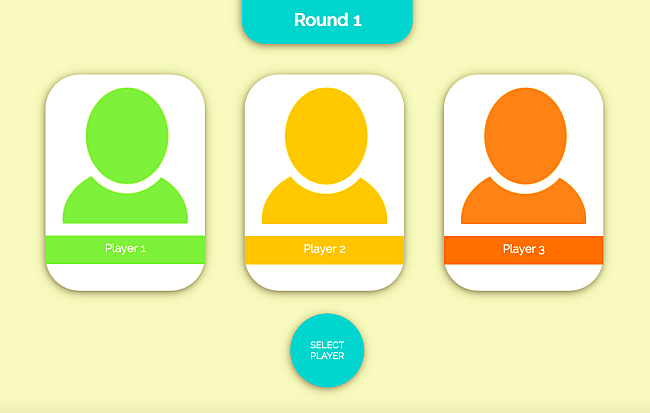
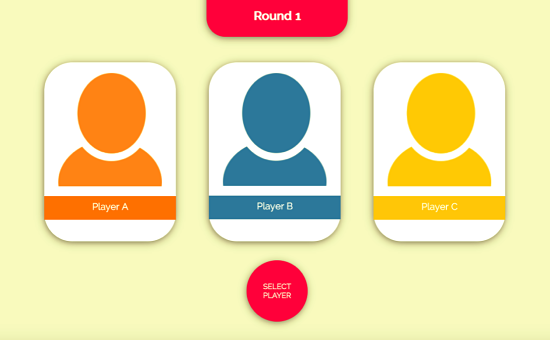
Replace instructions graphics; modify game feedback

diff --git a/src/app/game/game.component.html b/src/app/game/game.component.html
@@ -16,7 +16,8 @@
       <div class="participant card player">
         <div class="player-info">
           <img [src]="playerImgPath">
-          <div class="player-name">{{ curParticipantService.name | capitalize}}</div>
+          <!--          <div class="player-name">{{ curParticipantService.name | capitalize}}</div> -->
+          <div class="player-name">You</div>
         </div>
       </div> <!-- #participant -->
 
@@ -37,11 +38,10 @@
           </div>
 
           <div class="feedback flip-side card">
-            <p>You invested {{ endowment | currency:'USD':true:'1.2-2' }}, and kept {{ (1 - endowment).toFixed(2) | currency:'USD':true:'1.2-2' }} for yourself.</p>
-            <p>{{ opponent.player.name }} received {{ (endowment * 4).toFixed(2) | currency:'USD':true:'1.2-2' }} and returned 
-              {{ oppReturn | currency:'USD':true:'1.2-2' }} to you.</p>
-            <p>On this round you earned</p>
-            <h4>{{ (1 - endowment).toFixed(2) | currency:'USD':true:'1.2-2' }} + {{ oppReturn | currency:'USD':true:'1.2-2' }} = {{ netGain | currency:'USD':true:'1.2-2' }}</h4>
+            <p>You invested <strong>{{ endowment | currency:'USD':true:'1.2-2' }}</strong>, and kept 
+              <strong>{{ (1 - endowment).toFixed(2) | currency:'USD':true:'1.2-2' }}</strong> for yourself.</p>
+            <p>{{ opponent.player.name }} received <strong>{{ (endowment * 4).toFixed(2) | currency:'USD':true:'1.2-2' }}</strong> and returned 
+              <strong>{{ oppReturn | currency:'USD':true:'1.2-2' }}</strong> to you.</p>
             <button (click)="nextTrial()">Next Round</button>
           </div> <!-- .feedback -->
         </div> <!-- .interactive-elements -->

diff --git a/src/app/game/game.component.css b/src/app/game/game.component.css
@@ -28,6 +28,10 @@
   text-align: center;
 }
 
+button {
+  background-color: #f71b58;
+}
+
 #opponent-button button {
   margin-top: 20%;
   border-radius: 90%;
@@ -38,7 +42,6 @@
   -webkit-box-shadow: -1px 3px 30px -4px rgba(68,68,68,1);
   -moz-box-shadow: -1px 3px 30px -4px rgba(68,68,68,1);
   box-shadow: -1px 3px 30px -4px rgba(68,68,68,1);
-  background-color: #f71b58;
 }
 
 h4 {
@@ -126,7 +129,7 @@ input[type=range]::-webkit-slider-thumb {
   border: none;
   height: 25px;
   width: 10px;
-  background: #3bd4f2;
+  background: #f71b58;
   margin-top: -10px;
 }
 
